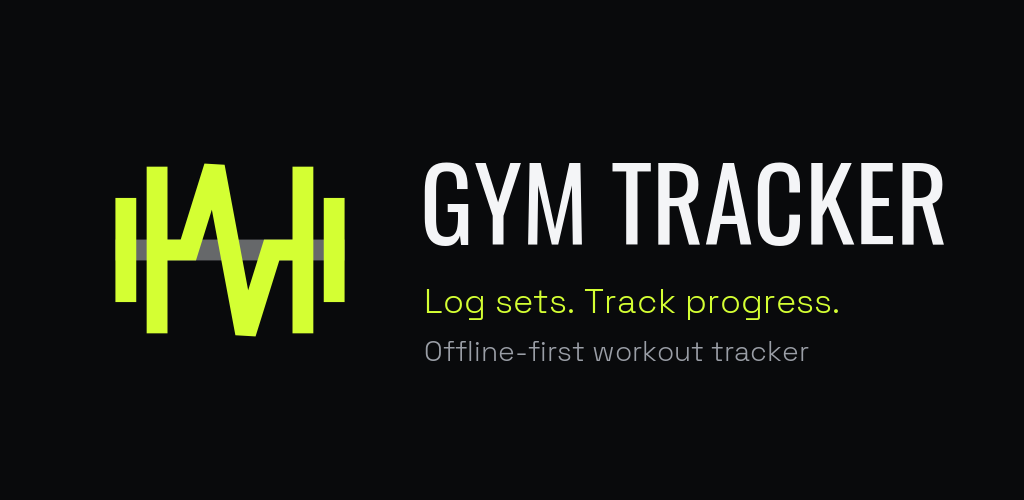
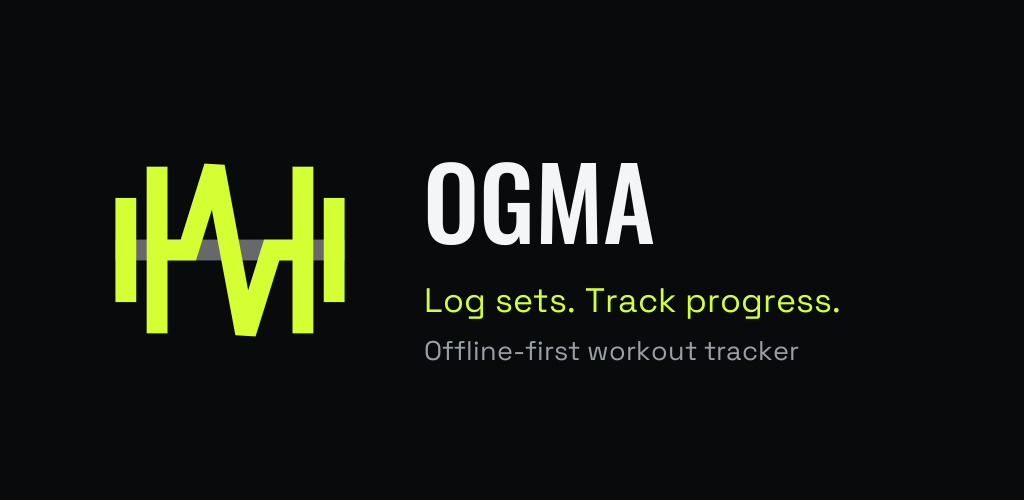
Complete the Ogma app rebrand

Changed region(s): [[0.4062, 0.3, 0.9375, 0.51], [0.4062, 0.57, 0.8125, 0.63], [0.4062, 0.66, 0.7812, 0.72]]

diff --git a/app/src/main/java/dev/francescolofranco/gymtracker/ui/screens/settings/SettingsScreen.kt b/app/src/main/java/dev/francescolofranco/gymtracker/ui/screens/settings/SettingsScreen.kt
@@ -389,7 +389,7 @@ fun SettingsScreen(
     }
 
     if (showAboutPopup) {
-        GymTrackerAboutDialog(onDismiss = { showAboutPopup = false })
+        OgmaAboutDialog(onDismiss = { showAboutPopup = false })
     }
 
     backupState.preview?.let { preview ->
@@ -1040,6 +1040,8 @@ private fun checkNotificationGranted(context: android.content.Context): Boolean 
 
 @Composable
 private fun AboutRow(onClick: () -> Unit) {
+    val appName = stringResource(R.string.app_name)
+    val aboutDescription = stringResource(R.string.about_app_description, appName)
     val context = LocalContext.current
     val version = remember {
         runCatching {
@@ -1053,7 +1055,7 @@ private fun AboutRow(onClick: () -> Unit) {
             .clickable(onClick = onClick)
             .semantics {
                 role = Role.Button
-                contentDescription = "Gym Tracker system manifesto and diagnostics"
+                contentDescription = aboutDescription
             }
             .padding(horizontal = 16.dp, vertical = 14.dp),
         verticalAlignment = Alignment.CenterVertically,
@@ -1069,7 +1071,7 @@ private fun AboutRow(onClick: () -> Unit) {
             verticalArrangement = Arrangement.spacedBy(2.dp),
         ) {
             Text(
-                text = "GYM TRACKER",
+                text = appName.uppercase(),
                 style = MaterialTheme.typography.titleLarge.copy(
                     fontFamily = OswaldFontFamily,
                     fontSize = 18.sp,
@@ -1165,7 +1167,8 @@ private val TRAINING_TIPS = listOf(
 )
 
 @Composable
-private fun GymTrackerAboutDialog(onDismiss: () -> Unit) {
+private fun OgmaAboutDialog(onDismiss: () -> Unit) {
+    val appName = stringResource(R.string.app_name)
     var tipIndex by remember { mutableIntStateOf(0) }
     val currentTip = TRAINING_TIPS[tipIndex]
 
@@ -1192,7 +1195,7 @@ private fun GymTrackerAboutDialog(onDismiss: () -> Unit) {
                     verticalArrangement = Arrangement.spacedBy(4.dp),
                 ) {
                     Text(
-                        text = "GYM TRACKER",
+                        text = appName.uppercase(),
                         style = MaterialTheme.typography.headlineMedium.copy(
                             fontFamily = OswaldFontFamily,
                             fontSize = 26.sp,

diff --git a/app/src/main/java/dev/francescolofranco/gymtracker/ui/components/AppLogo.kt b/app/src/main/java/dev/francescolofranco/gymtracker/ui/components/AppLogo.kt
@@ -37,6 +37,7 @@ import androidx.compose.ui.graphics.StrokeCap
 import androidx.compose.ui.graphics.StrokeJoin
 import androidx.compose.ui.graphics.drawscope.Stroke
 import androidx.compose.ui.graphics.drawscope.scale
+import androidx.compose.ui.res.stringResource
 import androidx.compose.ui.semantics.Role
 import androidx.compose.ui.semantics.contentDescription
 import androidx.compose.ui.semantics.role
@@ -45,6 +46,7 @@ import androidx.compose.ui.text.font.FontWeight
 import androidx.compose.ui.unit.Dp
 import androidx.compose.ui.unit.dp
 import androidx.compose.ui.unit.sp
+import dev.francescolofranco.gymtracker.R
 import dev.francescolofranco.gymtracker.ui.theme.DarkOnSurface
 import dev.francescolofranco.gymtracker.ui.theme.OswaldFontFamily
 import dev.francescolofranco.gymtracker.ui.theme.SpaceGroteskFontFamily
@@ -82,12 +84,13 @@ fun AppLogo(
     size: Dp = 32.dp,
     variant: LogoVariant = LogoVariant.MarkOnly,
     badge: String? = null,
-    wordmark: String = "GYM TRACKER",
     showContainer: Boolean = false,
     monochromeTint: Color = DarkOnSurface,
     interactive: Boolean = true,
     onClick: (() -> Unit)? = null,
 ) {
+    val appName = stringResource(R.string.app_name)
+    val logoDescription = stringResource(R.string.app_logo_description, appName)
     val isMonochrome = variant == LogoVariant.Monochrome
     val isLockup = variant == LogoVariant.FullLockup
 
@@ -151,7 +154,7 @@ fun AppLogo(
         modifier = modifier
             .then(clickableModifier)
             .semantics {
-                contentDescription = "Gym Tracker Logo"
+                contentDescription = logoDescription
                 if (onClick != null) {
                     role = Role.Button
                 }
@@ -275,7 +278,7 @@ fun AppLogo(
             ) {
                 val wordmarkFontSize = (size.value * (if (showContainer) 0.56f else 0.68f)).roundToInt().sp
                 Text(
-                    text = wordmark.uppercase(),
+                    text = appName.uppercase(),
                     style = MaterialTheme.typography.titleLarge.copy(
                         fontFamily = OswaldFontFamily,
                         fontSize = wordmarkFontSize,

diff --git a/app/src/androidTest/java/dev/francescolofranco/gymtracker/ui/screens/sessions/CompletionExerciseRowTest.kt b/app/src/androidTest/java/dev/francescolofranco/gymtracker/ui/screens/sessions/CompletionExerciseRowTest.kt
@@ -10,7 +10,7 @@ import androidx.compose.ui.test.onNodeWithText
 import androidx.compose.ui.unit.Density
 import androidx.compose.ui.unit.dp
 import dev.francescolofranco.gymtracker.domain.WeightUnit
-import dev.francescolofranco.gymtracker.ui.theme.GymTrackerTheme
+import dev.francescolofranco.gymtracker.ui.theme.OgmaTheme
 import org.junit.Assert.assertTrue
 import org.junit.Rule
 import org.junit.Test
@@ -25,7 +25,7 @@ class CompletionExerciseRowTest(private val widthDp: Int, private val fontScale:
         val name = "Standing calf raise with a long exercise name"
         val sets = "4 sets/side (L 20, 15, 14, 15, R 20, 15, 15, 15 reps)"
         compose.setContent {
-            GymTrackerTheme {
+            OgmaTheme {
                 val density = LocalDensity.current
                 CompositionLocalProvider(LocalDensity provides Density(density.density, fontScale)) {
                     Box(Modifier.width(widthDp.dp)) {

diff --git a/app/src/main/java/dev/francescolofranco/gymtracker/MainActivity.kt b/app/src/main/java/dev/francescolofranco/gymtracker/MainActivity.kt
@@ -6,8 +6,8 @@ import androidx.activity.ComponentActivity
 import androidx.activity.compose.setContent
 import androidx.activity.enableEdgeToEdge
 import dagger.hilt.android.AndroidEntryPoint
-import dev.francescolofranco.gymtracker.ui.GymApp
-import dev.francescolofranco.gymtracker.ui.theme.GymTrackerTheme
+import dev.francescolofranco.gymtracker.ui.OgmaApp
+import dev.francescolofranco.gymtracker.ui.theme.OgmaTheme
 import dev.francescolofranco.gymtracker.ui.theme.withUiZoom
 import dev.francescolofranco.gymtracker.service.TimerService
 import dev.francescolofranco.gymtracker.service.TimerState
@@ -53,8 +53,8 @@ class MainActivity : ComponentActivity() {
         super.onCreate(savedInstanceState)
         enableEdgeToEdge()
         setContent {
-            GymTrackerTheme {
-                GymApp()
+            OgmaTheme {
+                OgmaApp()
             }
         }
     }

diff --git a/app/src/main/java/dev/francescolofranco/gymtracker/ui/OgmaApp.kt b/app/src/main/java/dev/francescolofranco/gymtracker/ui/OgmaApp.kt
@@ -74,7 +74,7 @@ import java.time.YearMonth
 
 @OptIn(ExperimentalMaterial3Api::class)
 @Composable
-fun GymApp() {
+fun OgmaApp() {
     val nav = rememberNavController()
     val fadeThroughEnter = fadeIn(
         animationSpec = tween(
@@ -239,7 +239,6 @@ private fun TopLevelScaffold(
                     AppLogo(
                         size = 36.dp,
                         variant = LogoVariant.FullLockup,
-                        wordmark = stringResource(dev.francescolofranco.gymtracker.R.string.app_name),
                         showContainer = true,
                     )
                 }

diff --git a/app/src/main/java/dev/francescolofranco/gymtracker/ui/screens/restore/DriveRestorePrompt.kt b/app/src/main/java/dev/francescolofranco/gymtracker/ui/screens/restore/DriveRestorePrompt.kt
@@ -78,7 +78,7 @@ class DriveRestorePromptViewModel @Inject constructor(
 
 /**
  * One-shot Drive-restore offer for fresh-install + signed-in users. Mounted at the top of
- * GymApp so it overlays whatever screen is current. Once the user accepts, skips, or sees an
+ * OgmaApp so it overlays whatever screen is current. Once the user accepts, skips, or sees an
  * error, the underlying flag in UserPrefs is set so we never ask again on this device.
  */
 @Composable

diff --git a/app/src/main/java/dev/francescolofranco/gymtracker/data/backup/drive/DriveBackupRepository.kt b/app/src/main/java/dev/francescolofranco/gymtracker/data/backup/drive/DriveBackupRepository.kt
@@ -95,7 +95,7 @@ class DriveBackupRepository @Inject constructor(
 
             val bytes = export.json.toByteArray()
             val now = Instant.now()
-            val name = "gymtracker-${now.toString().replace(":", "-")}.json"
+            val name = "ogma-backup-${now.toString().replace(":", "-")}.json"
             val fileId = client.upload(token, name, bytes)
 
             val pruned = pruneToLast(token, MAX_SNAPSHOTS)

diff --git a/app/src/main/java/dev/francescolofranco/gymtracker/data/backup/BackupRepository.kt b/app/src/main/java/dev/francescolofranco/gymtracker/data/backup/BackupRepository.kt
@@ -99,7 +99,7 @@ class BackupRepository @Inject constructor(
     fun hasRecovery(): Boolean = recoveryStore.exists()
 
     fun suggestedFilename(now: Instant = Instant.now()): String =
-        "gymtracker-backup-${now.toString().replace(":", "-")}.json"
+        "ogma-backup-${now.toString().replace(":", "-")}.json"
 
     private fun plural(n: Int) = if (n == 1) "" else "s"
 

diff --git a/app/src/main/java/dev/francescolofranco/gymtracker/ui/theme/Theme.kt b/app/src/main/java/dev/francescolofranco/gymtracker/ui/theme/Theme.kt
@@ -74,7 +74,7 @@ private val DarkColors = darkColorScheme(
 
 /** Fixed dark editorial identity, independent of wallpaper and system appearance. */
 @Composable
-fun GymTrackerTheme(content: @Composable () -> Unit) {
+fun OgmaTheme(content: @Composable () -> Unit) {
     val view = LocalView.current
     if (!view.isInEditMode) {
         SideEffect {

diff --git a/app/src/main/java/dev/francescolofranco/gymtracker/OgmaApplication.kt b/app/src/main/java/dev/francescolofranco/gymtracker/OgmaApplication.kt
@@ -7,7 +7,7 @@ import dev.francescolofranco.gymtracker.work.DailyBackupScheduler
 import javax.inject.Inject
 
 @HiltAndroidApp
-class GymApp : Application() {
+class OgmaApplication : Application() {
 
     @Inject lateinit var dailyBackupScheduler: DailyBackupScheduler
 

diff --git a/app/src/test/java/dev/francescolofranco/gymtracker/ui/screens/sessions/SessionShareTextTest.kt b/app/src/test/java/dev/francescolofranco/gymtracker/ui/screens/sessions/SessionShareTextTest.kt
@@ -71,7 +71,7 @@ class SessionShareTextTest {
 
             • Bench press — 2 sets (10, 8 reps) · 100 kg
 
-            Tracked with Gym Tracker
+            Tracked with Ogma
             """.trimIndent(),
             text,
         )

diff --git a/app/src/main/java/dev/francescolofranco/gymtracker/ui/screens/sessions/SessionShareText.kt b/app/src/main/java/dev/francescolofranco/gymtracker/ui/screens/sessions/SessionShareText.kt
@@ -93,7 +93,7 @@ fun buildSessionShareText(
 
         appendLine()
         appendLine()
-        append("Tracked with Gym Tracker")
+        append("Tracked with Ogma")
     }
 }
 
